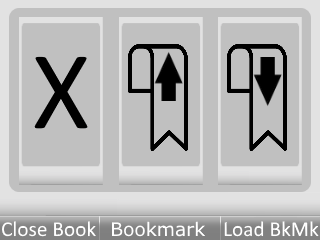
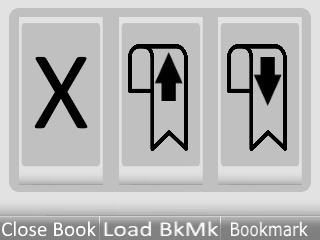
implemented saving bookmarks to xml
loading coming soon

Changed region(s): [[0.3125, 0.9042, 1.0, 0.9917]]

diff --git a/source/gui.cpp b/source/gui.cpp
@@ -7,9 +7,13 @@
 #include <cstdlib>
 #include <cstdio>
 #include <dirent.h> 
+#include <fstream>
 
 #include "gui.h"
 #include "input.h"
+#include "tinyxml2/tinyxml2.h"
+
+using namespace tinyxml2;
 
 // Thanks to http://stackoverflow.com/a/6417908
 std::string Gui::remove_extension(const std::string& filename)
@@ -32,6 +36,7 @@ void Gui::Load()
 	m_Charging = sfil_load_PNG_file("res/BatteryCharge.png", SF2D_PLACE_VRAM);
 	m_About = sfil_load_PNG_file("res/about.png", SF2D_PLACE_VRAM);
 	m_TextBG = sfil_load_PNG_file("res/text.png", SF2D_PLACE_VRAM);
+	m_BookmarkedBG = sfil_load_PNG_file("res/bookmarked.png", SF2D_PLACE_VRAM);
 
 	m_BatteryLevels.push_back(sfil_load_PNG_file("res/BatteryEmpty.png", SF2D_PLACE_VRAM));
 	m_BatteryLevels.push_back(sfil_load_PNG_file("res/BatteryLowest.png", SF2D_PLACE_VRAM));
@@ -66,6 +71,7 @@ void Gui::Close()
 	sf2d_free_texture(m_Charging);
 	sf2d_free_texture(m_About);
 	sf2d_free_texture(m_TextBG);
+	sf2d_free_texture(m_BookmarkedBG);
 
 	for(auto& v : m_BatteryLevels) {
 		sf2d_free_texture(v);
@@ -128,23 +134,34 @@ void Gui::HandleEventsMenu(Input& input)
 
 void Gui::HandleEventsBook(Input& input)
 {
-	if (input.m_kDown & KEY_LEFT) { m_BookPage--; }
-	if (input.m_kDown & KEY_RIGHT) { m_BookPage++; }
-
-	if (m_BookPage < 0) { m_BookPage = 0; }
-
-	if (input.m_PosX >= 20 && input.m_PosX <= 103 && input.m_PosY >= 18 && input.m_PosY <= 185) {
-		input.curMode = 0;
-		CloseBook();
-		selected = "";
+	if (bookmarked)
+	{
+		if (input.m_PosX >= 0 && input.m_PosX <= 320 && input.m_PosY >= 0 && input.m_PosY <= 240) {
+			bookmarked = false;
+		}
 	}
+	else
+	{
+		if (input.m_kDown & KEY_LEFT) { m_BookPage--; }
+		if (input.m_kDown & KEY_RIGHT) { m_BookPage++; }
 
-	if (input.m_PosX >= 120 && input.m_PosX <= 203 && input.m_PosY >= 18 && input.m_PosY <= 185) {
-		// load bookmark
-	}
+		if (m_BookPage < 0) { m_BookPage = 0; }
 
-	if (input.m_PosX >= 219 && input.m_PosX <= 302 && input.m_PosY >= 18 && input.m_PosY <= 185) {
-		// save bookmark
+		if (input.m_PosX >= 20 && input.m_PosX <= 103 && input.m_PosY >= 18 && input.m_PosY <= 185) {
+			input.curMode = 0;
+			CloseBook();
+			selected = "";
+			m_BookPage = 0;
+		}
+
+		if (input.m_PosX >= 120 && input.m_PosX <= 203 && input.m_PosY >= 18 && input.m_PosY <= 185) {
+			LoadBookmark();
+		}
+
+		if (input.m_PosX >= 219 && input.m_PosX <= 302 && input.m_PosY >= 18 && input.m_PosY <= 185) {
+			bookmarked = true;
+			SaveBookmark();
+		}
 	}	
 }
 
@@ -248,7 +265,87 @@ void Gui::DrawBook(Gui& gui)
 
 void Gui::DrawControls()
 {
-	sf2d_draw_texture(m_Controls, 0, 0);
+	if (bookmarked)
+	{
+		sf2d_draw_texture(m_BookmarkedBG, 0, 0);
+	}
+	else
+	{
+		sf2d_draw_texture(m_Controls, 0, 0);
+	}
+}
+
+void Gui::LoadBookmark()
+{
+	// show a popup and some kind of list...
+	std::vector<int> bookmarkedPages;
+
+	std::ifstream in("books/bookmarks.xml");
+}
+
+void Gui::SaveBookmark()
+{	
+	std::ifstream in("books/bookmarks.xml");
+	std::string line, text;
+
+	if (!in.fail())
+	{
+		while(std::getline(in, line))
+		{
+			text += line + "\n";
+		}
+
+		in.close();
+
+		XMLDocument doc;
+		doc.Parse(text.c_str());
+
+		// get root bookmarks element
+		XMLElement* root = doc.FirstChildElement("bookmarks");
+
+			// create a new element with the name of the book
+		XMLElement* bookmarkElement = doc.NewElement("bookmark");
+		bookmarkElement->SetAttribute("book", selected.c_str());
+
+		// insert bookmark
+		bookmarkElement->SetAttribute("page", m_BookPage);
+		root->InsertEndChild(bookmarkElement);
+
+		doc.SaveFile("books/bookmarks.xml");
+	}
+	else
+	{
+		in.close();
+
+		XMLDocument doc;
+
+		// create a new document.
+		XMLDeclaration* dec = doc.NewDeclaration();
+		XMLNode* root = doc.NewElement("bookmarks");
+
+		doc.InsertFirstChild(dec);
+		doc.InsertEndChild(root);
+
+		// create a new element with the name of the book
+		XMLElement* bookmarkElement = doc.NewElement("bookmark");
+		bookmarkElement->SetAttribute("book", selected.c_str());
+
+		// insert bookmark
+		bookmarkElement->SetAttribute("page", m_BookPage);
+		root->InsertEndChild(bookmarkElement);
+
+		doc.SaveFile("books/bookmarks.xml");
+	}
+}
+
+sftd_font* Gui::getTextFont()
+{
+	return m_TextFont;
+}
+
+int Gui::getBookPage()
+{
+	return m_BookPage;
 }
 
 std::string Gui::clock()

diff --git a/source/gui.h b/source/gui.h
@@ -39,17 +39,13 @@ public:
 
 	std::string getSelected();
 
-	inline sftd_font* getTextFont() const
-	{
-		return m_TextFont;
-	}
+	sftd_font* getTextFont();
 
-	inline int getBookPage() const
-	{
-		return m_BookPage;
-	}
+	int getBookPage();
 
 private:
+	Book book;
+
 	int m_Index = 0;
 	int m_curPage = 0;
 	int m_BookPage = 0;
@@ -57,6 +53,7 @@ private:
 	unsigned int end = 7;
 	bool drawAbout = false;
 	bool loading = false;
+	bool bookmarked = false;
 
 	sf2d_texture* m_Next;
 	sf2d_texture* m_Prev;
@@ -65,9 +62,10 @@ private:
 	sf2d_texture* m_Exit;
 	sf2d_texture* m_About;
 	sf2d_texture* m_Controls;
-	std::vector<sf2d_texture*> m_BatteryLevels;
 	sf2d_texture* m_Charging;
 	sf2d_texture* m_TextBG;
+	sf2d_texture* m_BookmarkedBG;
+	std::vector<sf2d_texture*> m_BatteryLevels;
 
 	sftd_font* m_Font;
 	sftd_font* m_TextFont;
@@ -82,9 +80,10 @@ private:
 private:
 	std::string clock();
 	std::string remove_extension(const std::string& filename);
+	
 	void RemoveBook(const std::string& file);
-
-	Book book;
+	void LoadBookmark();
+	void SaveBookmark();
 };
 
 #endif

diff --git a/source/book.cpp b/source/book.cpp
@@ -109,7 +109,7 @@ void Book::ParseOPF(BLUnZip& zipfile)
 void Book::ParsePages(BLUnZip& zipfile)
 {
 	std::vector<char> filter(std::numeric_limits<unsigned char>::max(), 1);
-	for (unsigned char c: valid)
+	for (unsigned char c : valid)
 	{
     	filter[c] = 0;
 	}
